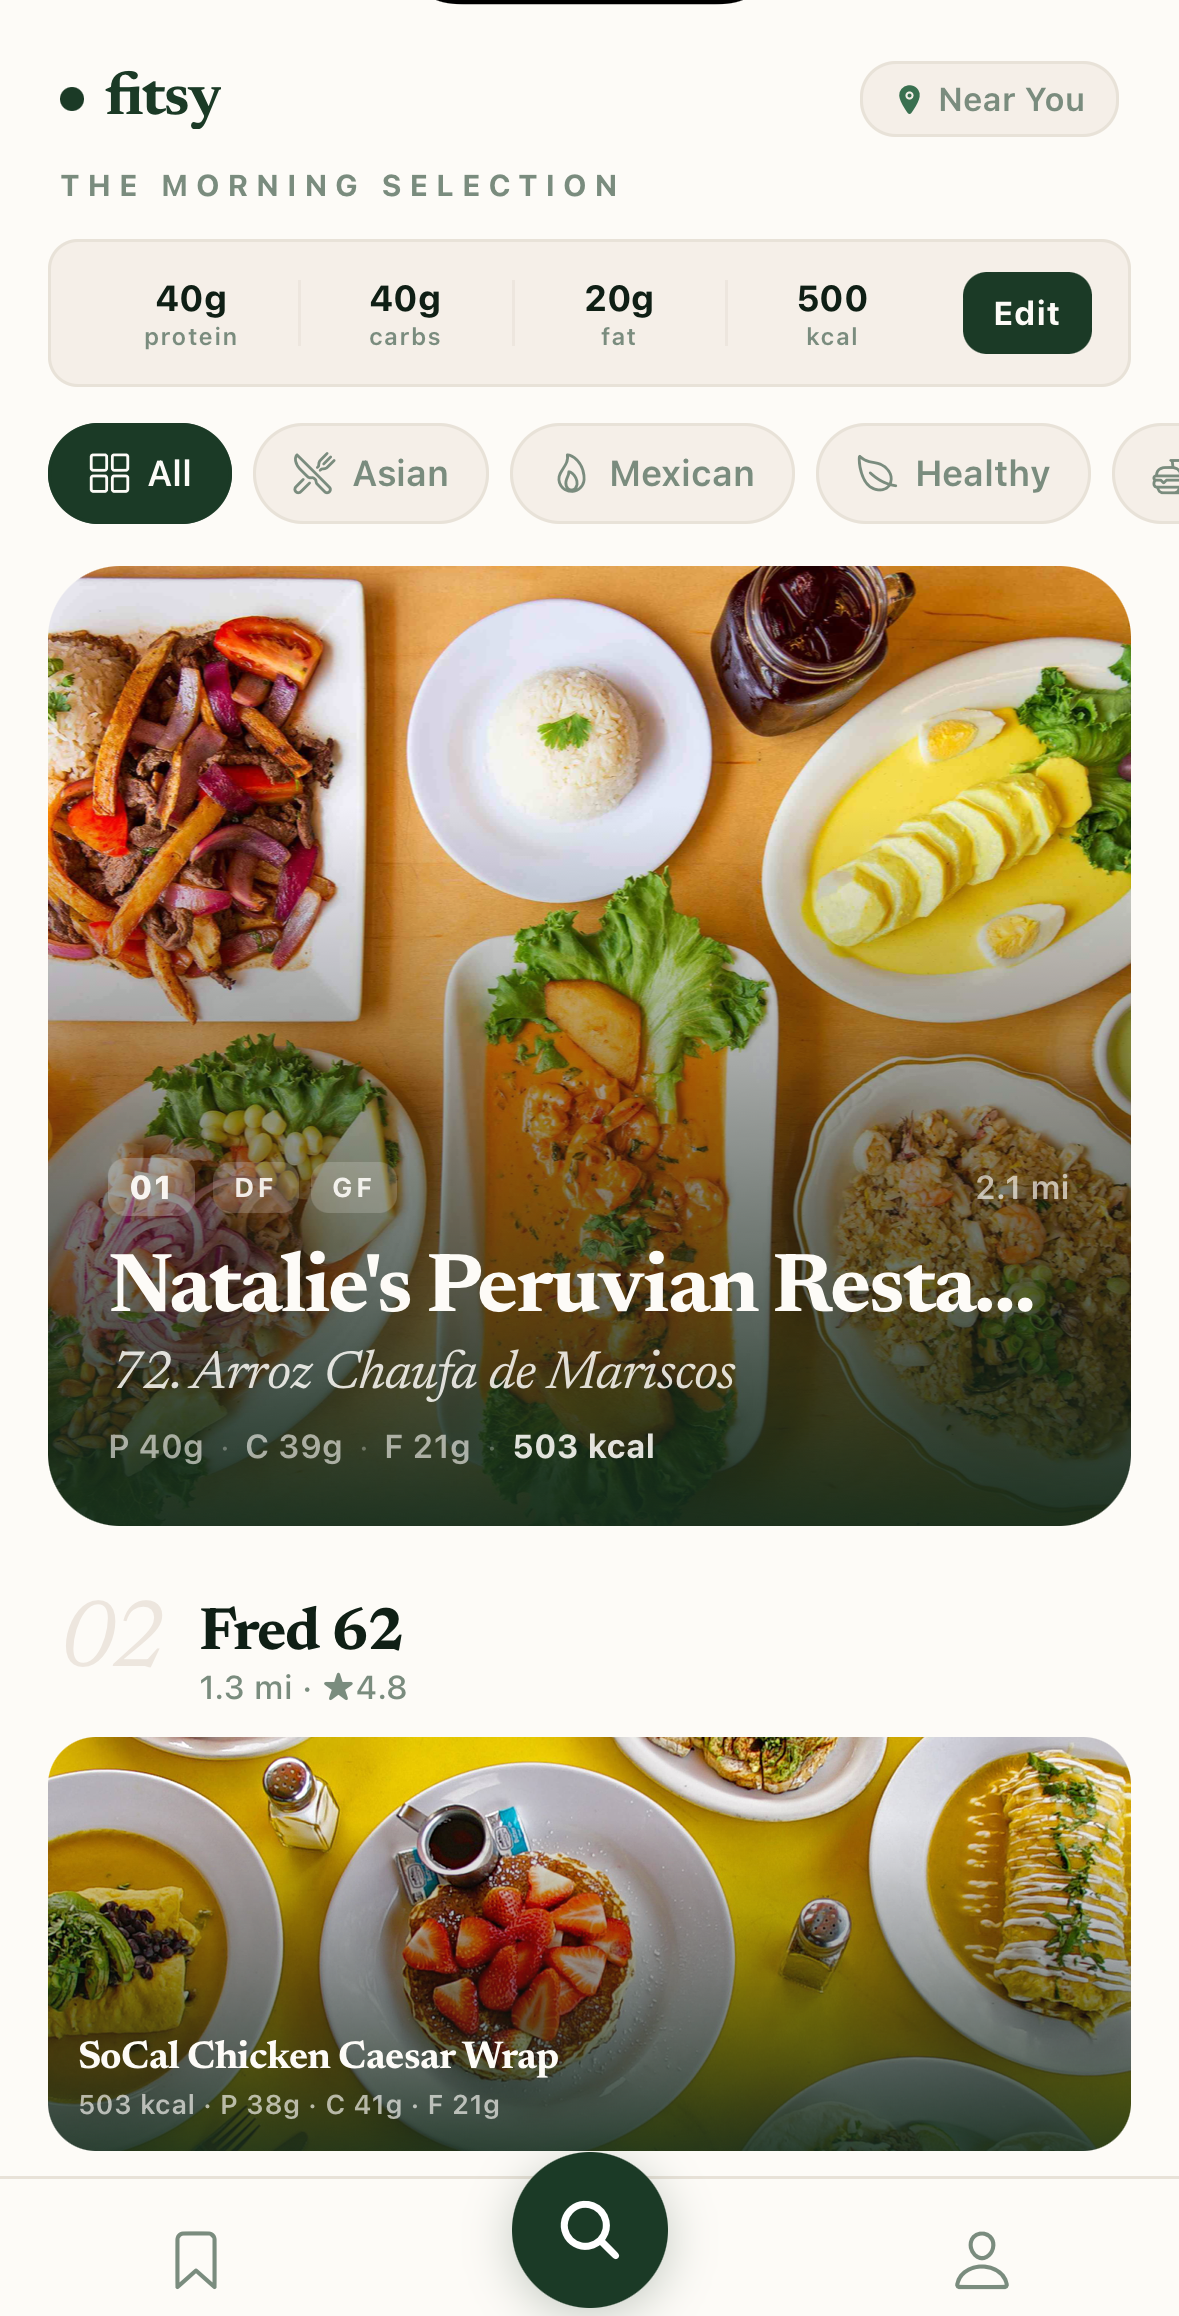
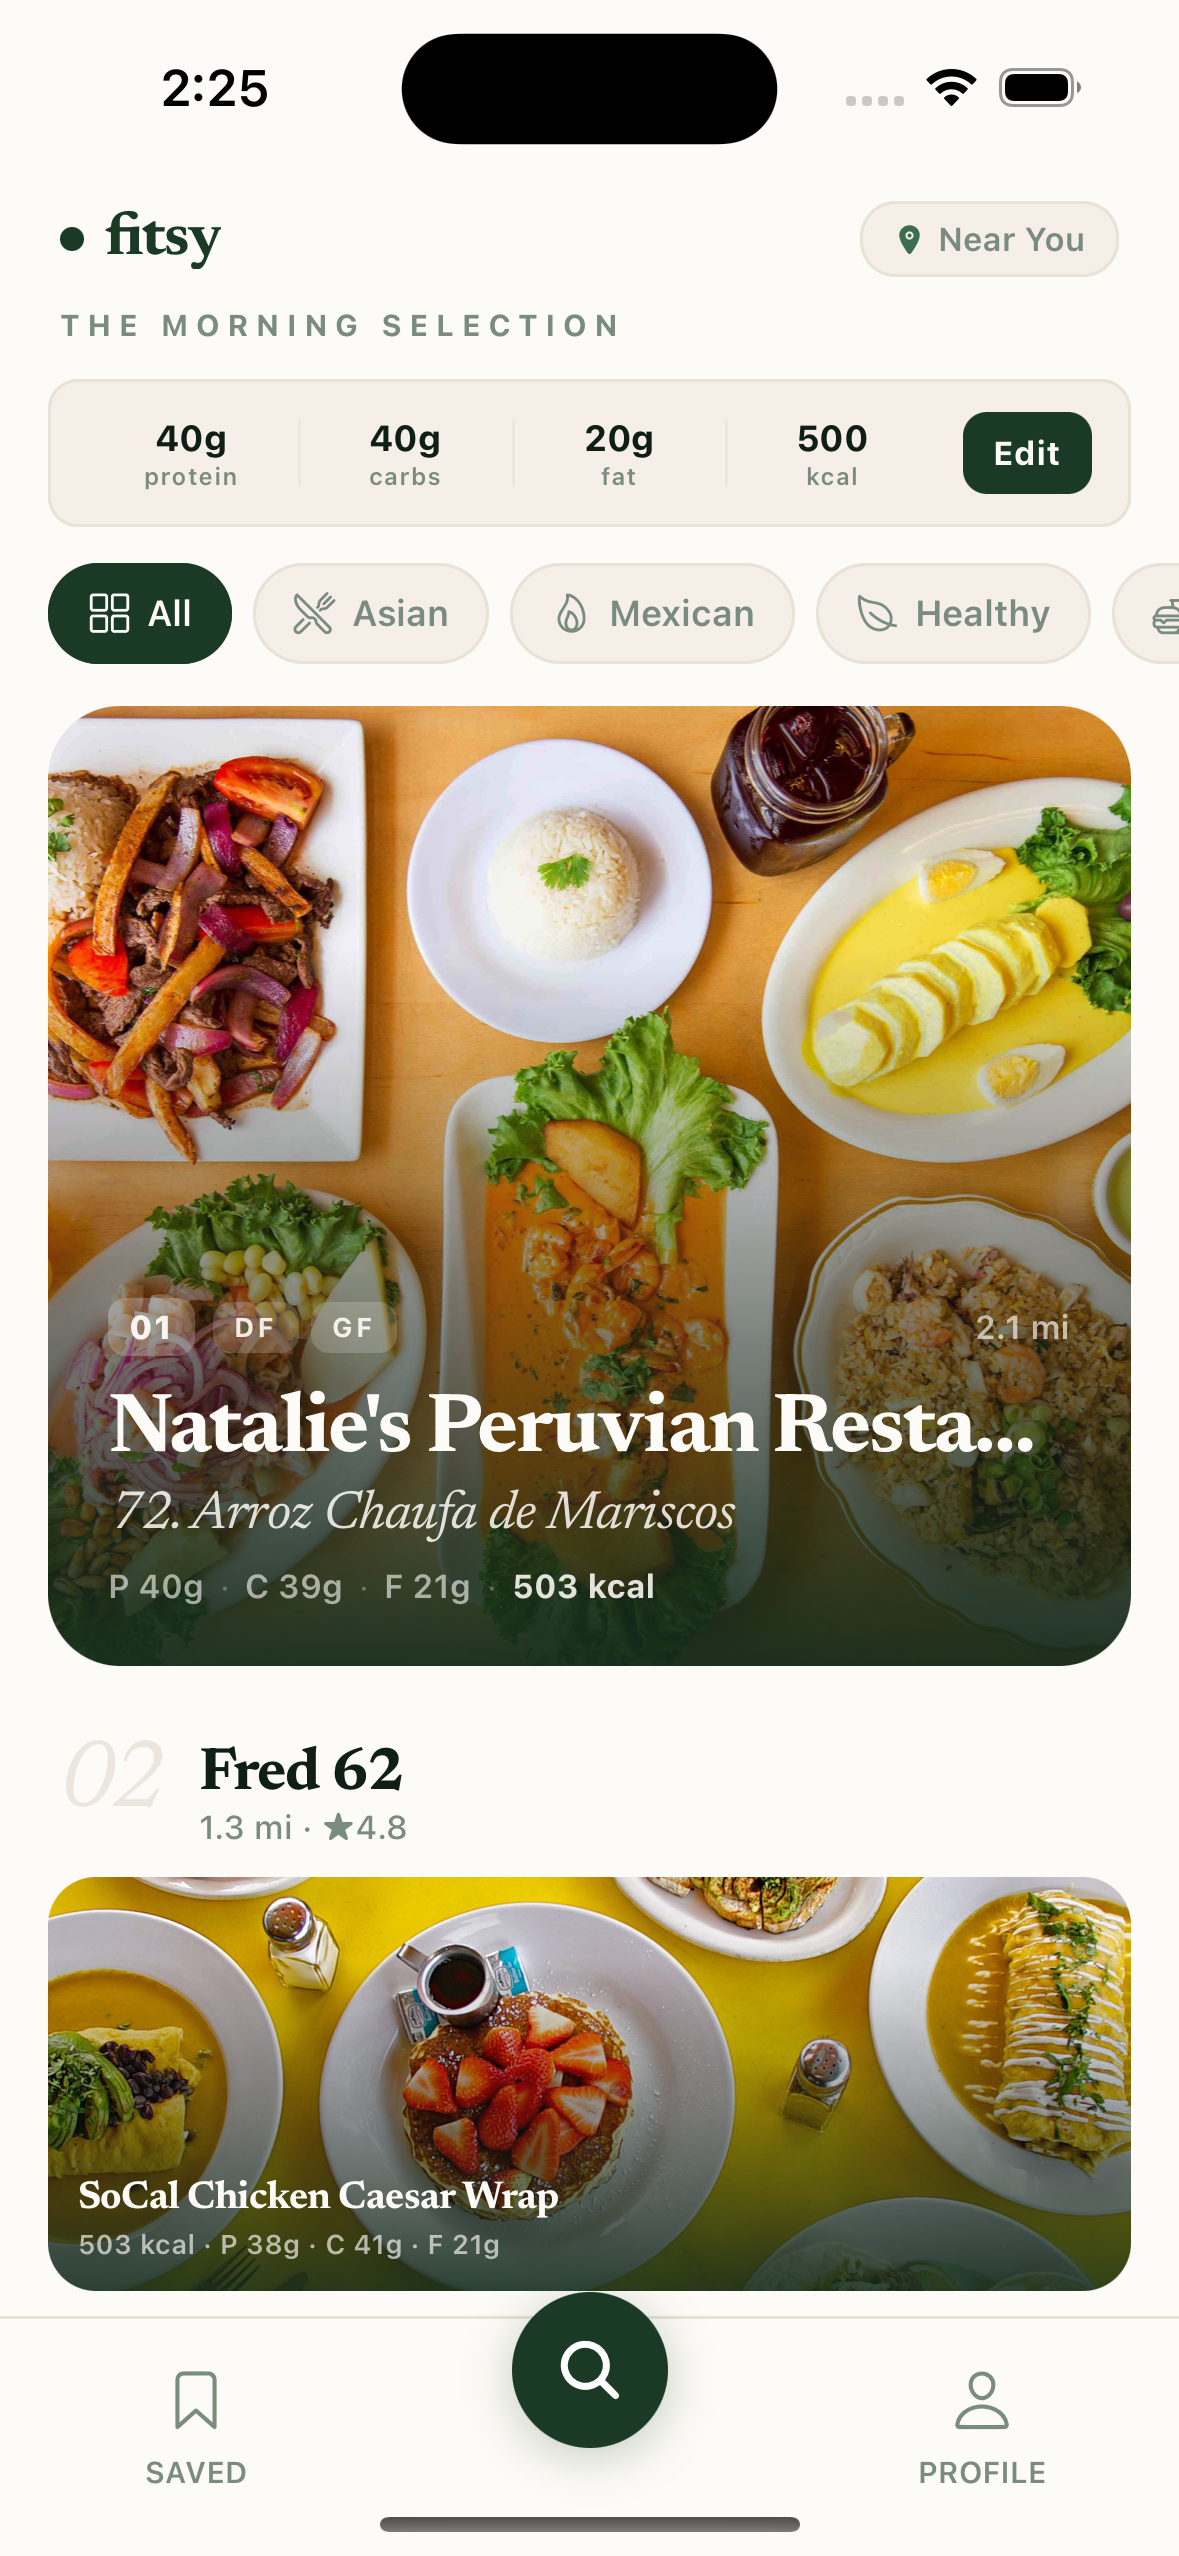
fix(web): correct phone mockup aspect ratio and screenshot crop
Use full uncropped screenshot (status bar hidden behind dynamic
island naturally). Increase phone height to 588px matching real
iPhone 15 aspect ratio (19.5:9) so bottom tab bar is visible.

diff --git a/apps/api/app/landing.module.css b/apps/api/app/landing.module.css
@@ -228,7 +228,7 @@
 .phone {
   position: relative;
   width: 272px;
-  height: 556px;
+  height: 588px;
   background: #1a1a1a;
   border-radius: 52px;
   padding: 4px;
@@ -304,6 +304,7 @@
   object-fit: cover;
   object-position: center top;
   display: block;
+  border-radius: 49px;
 }
 
 /* ─── Stats Splash ───────────────────────────────────────────────────── */
@@ -544,7 +545,7 @@
 
   .phone {
     width: 236px;
-    height: 482px;
+    height: 510px;
     border-radius: 46px;
   }
 
@@ -584,7 +585,7 @@
 
   .phone {
     width: 216px;
-    height: 442px;
+    height: 468px;
     border-radius: 42px;
   }
 
